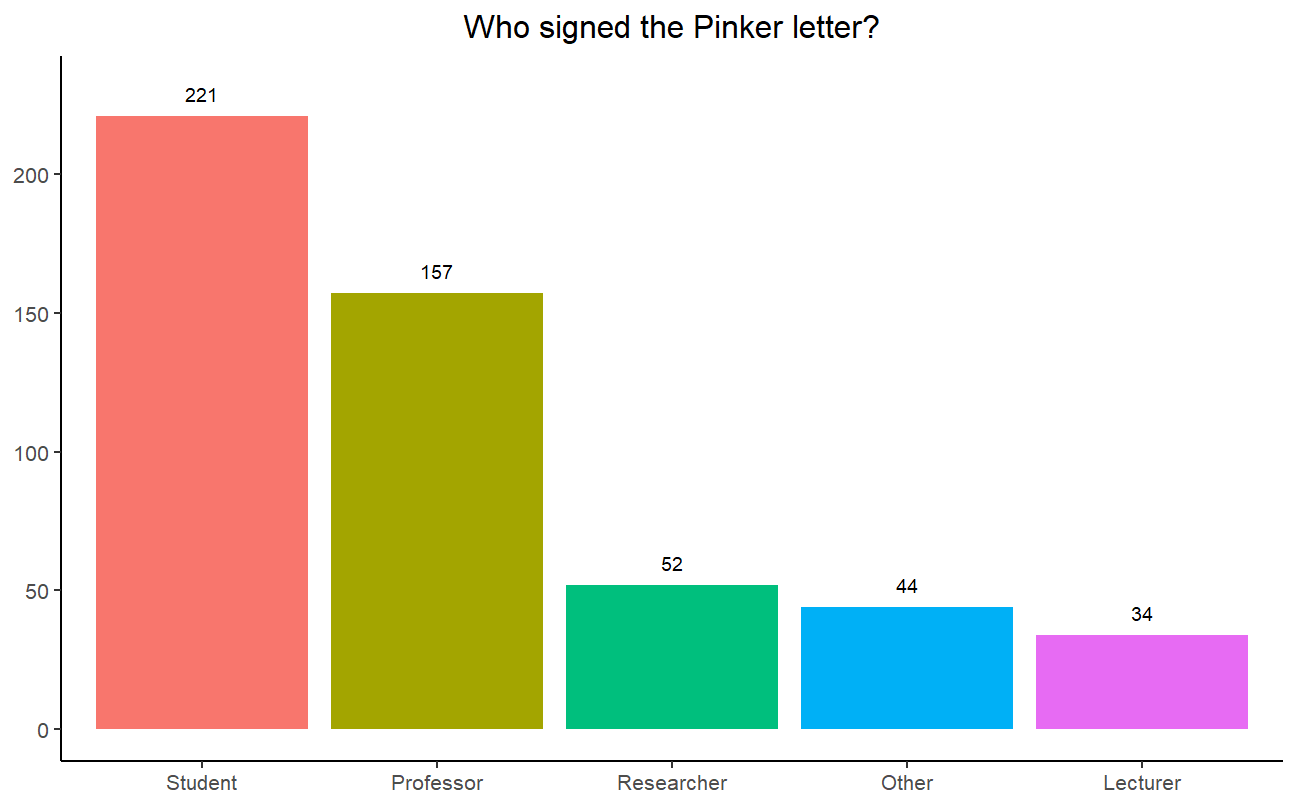
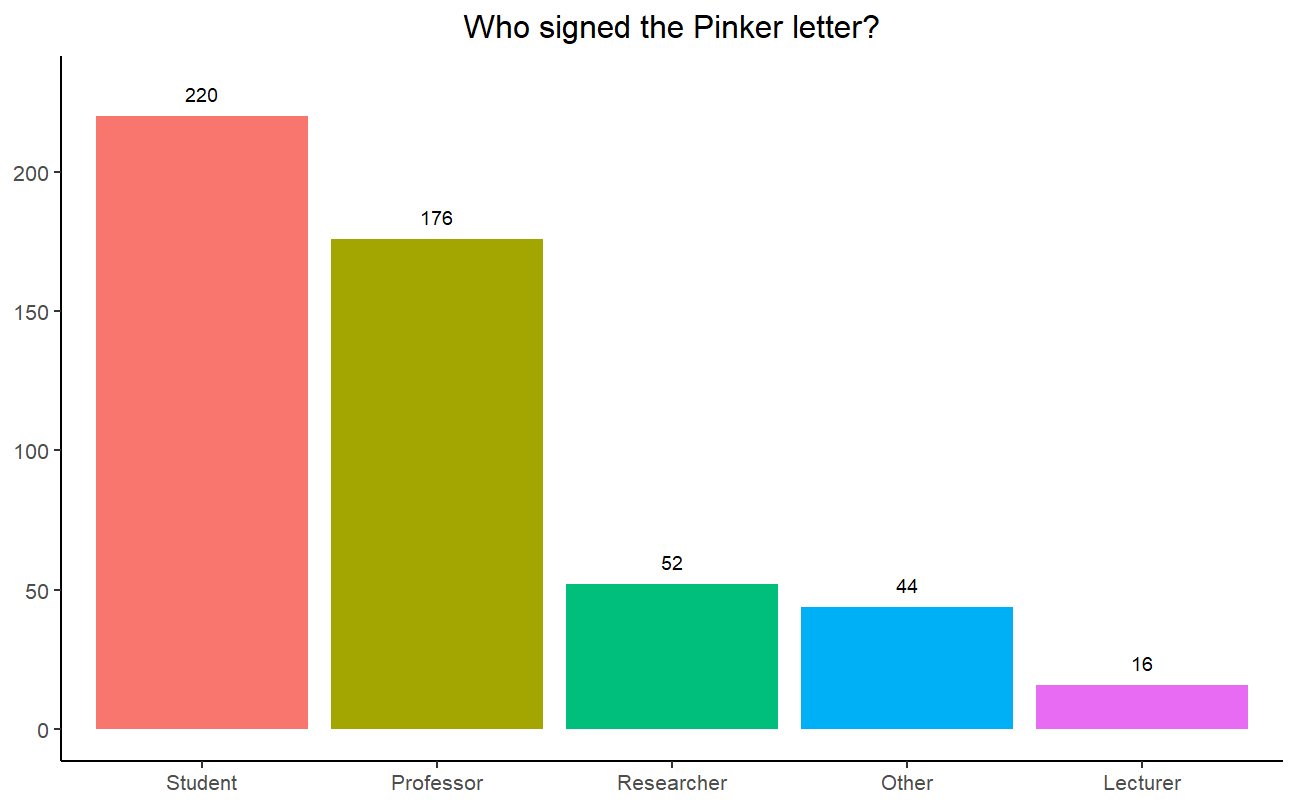
Deploy mcdowlinguist/mcdowlinguist.github.io to github.com/mcdowlinguist/mcdowlinguist.github.io.git:master

diff --git a/2020/07/22/pinker-letter-signatories.html b/2020/07/22/pinker-letter-signatories.html
@@ -260,17 +260,18 @@
   <li>Postdoctoral researchers were grouped in with data scientists and so on, unless “teaching” was indicated (in which case, they were counted as a lecturer)</li>
   <li>Alums were counted as students if nothing else was indicated.</li>
   <li>“Other” includes professionals within and outside of linguistics.</li>
+  <li>Anyone listing “lecturer” status in the UK, South Korea, Australia or New Zealand was manually changed to “professor,” as the title corresponds to Assistant Professor or higher in North America. (This affected 16 peoples’ classification.) Lecturers at European institutions were left off this list out of an abundance of caution.</li>
 </ul>
 
-<p>Note that this exercise was pretty weird to me. Academic rank is a strange thing, and this whole classification scheme felt a little unsavory and demeaning. Anyway. Once those roles are defined, we make a lookup dataframe and match people with their generalized roles. (I reordered the factor to make the bar graph pretty.)</p>
+<p>Note that this exercise felt pretty weird to me. Academic rank is a strange thing, and this whole classification scheme felt a little unsavory and demeaning. Anyway. Once those roles are defined, we make a lookup dataframe and match people with their generalized roles. (I reordered the factor to make the bar graph pretty.)</p>
 
 <p>Let’s take a look at the values:</p>
 
 <ul>
-  <li>Student: 221</li>
-  <li>Professor: 157</li>
+  <li>Student: 220</li>
+  <li>Professor: 176</li>
   <li>Researcher: 52</li>
-  <li>Lecturer: 34</li>
+  <li>Lecturer: 16</li>
   <li>Other: 44</li>
 </ul>
 
@@ -288,7 +289,8 @@
 
 <p>I even hesitated to write this post for fear of giving credence to this kind of argument. But in the end, I wanted to show that, playing by these (harmful!) rules, dismissing the Letter based on the status of the people who signed it is not as easy as, ahem, <em>certain people</em> have made it out to be.</p>
 
-<hr />
+<p>Post-script: Some people have already compiled a further breakdown of these numbers (e.g., tenure status). I hear that info should be public soon.
+___</p>
 <h2 id="the-code">The code</h2>
 
 <figure class="highlight"><pre><code class="language-r" data-lang="r"><span class="n">sign</span><span class="w"> </span><span class="o">=</span><span class="w"> </span><span class="n">read.csv2</span><span class="p">(</span><span class="n">text</span><span class="w"> </span><span class="o">=</span><span class="w"> </span><span class="s2">"
@@ -971,6 +973,7 @@ Zweig, Eytan;University of York;Lecturer
          </span><span class="s2">"Term Assistant Professor"</span><span class="p">,</span><span class="w">
          </span><span class="s2">"Professor and Chair, Department of Anthropology"</span><span class="p">,</span><span class="w">
          </span><span class="s2">"University teacher"</span><span class="p">,</span><span class="w">
+         </span><span class="s2">"Emeritus Professor"</span><span class="p">,</span><span class="w">
          </span><span class="s2">"Associate Professor Emeritus"</span><span class="p">,</span><span class="w">
          </span><span class="s2">"Professor and Chair"</span><span class="p">,</span><span class="w">
          </span><span class="s2">"Assoc Professor"</span><span class="p">,</span><span class="w">
@@ -1044,7 +1047,6 @@ Zweig, Eytan;University of York;Lecturer
          </span><span class="s2">"Grad student"</span><span class="p">,</span><span class="w">
          </span><span class="s2">"PhD Candidate, Linguistics"</span><span class="p">,</span><span class="w">
          </span><span class="s2">"Undergraduate"</span><span class="p">,</span><span class="w">
-         </span><span class="s2">"Emeritus Professor"</span><span class="p">,</span><span class="w">
          </span><span class="s2">"Undergraduate Student"</span><span class="p">,</span><span class="w">
          </span><span class="s2">"Alum, BA Linguistics + MS Theoretical Linguistics"</span><span class="w">
 </span><span class="p">)</span><span class="w">
@@ -1072,15 +1074,15 @@ Zweig, Eytan;University of York;Lecturer
 </span><span class="p">)</span><span class="w">
 
 </span><span class="n">lookup</span><span class="w"> </span><span class="o">=</span><span class="w"> </span><span class="n">data.frame</span><span class="p">(</span><span class="w">
-  </span><span class="n">who</span><span class="w"> </span><span class="o">=</span><span class="w"> </span><span class="nf">c</span><span class="p">(</span><span class="nf">rep</span><span class="p">(</span><span class="s2">"Lecturer"</span><span class="p">,</span><span class="w"> </span><span class="nf">length</span><span class="p">(</span><span class="n">lec</span><span class="p">)),</span><span class="w"> 
-  </span><span class="nf">rep</span><span class="p">(</span><span class="s2">"Other"</span><span class="p">,</span><span class="w"> </span><span class="nf">length</span><span class="p">(</span><span class="n">other</span><span class="p">)),</span><span class="w"> 
-  </span><span class="nf">rep</span><span class="p">(</span><span class="s2">"Professor"</span><span class="p">,</span><span class="w"> </span><span class="nf">length</span><span class="p">(</span><span class="n">prof</span><span class="p">)),</span><span class="w"> 
-  </span><span class="nf">rep</span><span class="p">(</span><span class="s2">"Researcher"</span><span class="p">,</span><span class="w"> </span><span class="nf">length</span><span class="p">(</span><span class="n">res</span><span class="p">)),</span><span class="w"> 
-  </span><span class="nf">rep</span><span class="p">(</span><span class="s2">"Student"</span><span class="p">,</span><span class="w"> </span><span class="nf">length</span><span class="p">(</span><span class="n">stud</span><span class="p">))),</span><span class="w">
+  </span><span class="n">who</span><span class="w"> </span><span class="o">=</span><span class="w"> </span><span class="nf">c</span><span class="p">(</span><span class="nf">rep</span><span class="p">(</span><span class="s2">"Lecturer"</span><span class="p">,</span><span class="w"> </span><span class="nf">length</span><span class="p">(</span><span class="n">lec</span><span class="p">)),</span><span class="w"> </span><span class="nf">rep</span><span class="p">(</span><span class="s2">"Other"</span><span class="p">,</span><span class="w"> </span><span class="nf">length</span><span class="p">(</span><span class="n">other</span><span class="p">)),</span><span class="w"> </span><span class="nf">rep</span><span class="p">(</span><span class="s2">"Professor"</span><span class="p">,</span><span class="w"> </span><span class="nf">length</span><span class="p">(</span><span class="n">prof</span><span class="p">)),</span><span class="w"> </span><span class="nf">rep</span><span class="p">(</span><span class="s2">"Researcher"</span><span class="p">,</span><span class="w"> </span><span class="nf">length</span><span class="p">(</span><span class="n">res</span><span class="p">)),</span><span class="w"> </span><span class="nf">rep</span><span class="p">(</span><span class="s2">"Student"</span><span class="p">,</span><span class="w"> </span><span class="nf">length</span><span class="p">(</span><span class="n">stud</span><span class="p">))),</span><span class="w">
   </span><span class="n">role</span><span class="w"> </span><span class="o">=</span><span class="w"> </span><span class="nf">c</span><span class="p">(</span><span class="n">lec</span><span class="p">,</span><span class="n">other</span><span class="p">,</span><span class="n">prof</span><span class="p">,</span><span class="n">res</span><span class="p">,</span><span class="n">stud</span><span class="p">)</span><span class="w">
 </span><span class="p">)</span><span class="w">
 
 </span><span class="n">sign</span><span class="o">$</span><span class="n">who</span><span class="w"> </span><span class="o">=</span><span class="w"> </span><span class="n">lookup</span><span class="o">$</span><span class="n">who</span><span class="p">[</span><span class="n">match</span><span class="p">(</span><span class="n">sign</span><span class="o">$</span><span class="n">V3</span><span class="p">,</span><span class="w"> </span><span class="n">lookup</span><span class="o">$</span><span class="n">role</span><span class="p">)]</span><span class="w">
+
+</span><span class="n">revise</span><span class="w"> </span><span class="o">=</span><span class="w"> </span><span class="nf">c</span><span class="p">(</span><span class="m">111</span><span class="p">,</span><span class="w"> </span><span class="m">156</span><span class="p">,</span><span class="w"> </span><span class="m">161</span><span class="p">,</span><span class="w"> </span><span class="m">176</span><span class="p">,</span><span class="w"> </span><span class="m">290</span><span class="p">,</span><span class="w"> </span><span class="m">302</span><span class="p">,</span><span class="w"> </span><span class="m">304</span><span class="p">,</span><span class="w"> </span><span class="m">379</span><span class="p">,</span><span class="w"> </span><span class="m">334</span><span class="p">,</span><span class="w"> </span><span class="m">462</span><span class="p">,</span><span class="w"> </span><span class="m">444</span><span class="p">,</span><span class="w"> </span><span class="m">499</span><span class="p">,</span><span class="w"> </span><span class="m">524</span><span class="p">,</span><span class="w"> </span><span class="m">588</span><span class="p">,</span><span class="w"> </span><span class="m">617</span><span class="p">,</span><span class="w"> </span><span class="m">632</span><span class="p">)</span><span class="w">
+
+</span><span class="n">sign</span><span class="p">[</span><span class="n">revise</span><span class="p">,]</span><span class="o">$</span><span class="n">who</span><span class="w"> </span><span class="o">=</span><span class="w"> </span><span class="s2">"Professor"</span><span class="w">
 
 </span><span class="n">sign</span><span class="w"> </span><span class="o">=</span><span class="w"> </span><span class="n">within</span><span class="p">(</span><span class="n">sign</span><span class="p">,</span><span class="w"> </span><span class="n">who</span><span class="w"> </span><span class="o">&lt;-</span><span class="w"> </span><span class="n">factor</span><span class="p">(</span><span class="n">who</span><span class="p">,</span><span class="w"> </span><span class="n">levels</span><span class="o">=</span><span class="nf">names</span><span class="p">(</span><span class="n">sort</span><span class="p">(</span><span class="n">table</span><span class="p">(</span><span class="n">who</span><span class="p">),</span><span class="w"> </span><span class="n">decreasing</span><span class="o">=</span><span class="kc">TRUE</span><span class="p">))))</span><span class="w">
 
@@ -1092,8 +1094,7 @@ Zweig, Eytan;University of York;Lecturer
   </span><span class="n">axis.title</span><span class="w"> </span><span class="o">=</span><span class="w"> </span><span class="n">element_blank</span><span class="p">(),</span><span class="w">
   </span><span class="n">legend.position</span><span class="w"> </span><span class="o">=</span><span class="w"> </span><span class="s2">"none"</span><span class="p">,</span><span class="w">
   </span><span class="n">plot.title</span><span class="w"> </span><span class="o">=</span><span class="w"> </span><span class="n">element_text</span><span class="p">(</span><span class="n">hjust</span><span class="w"> </span><span class="o">=</span><span class="w"> </span><span class="m">0.5</span><span class="p">)</span><span class="w">
-</span><span class="p">)</span><span class="w"> </span><span class="o">+</span><span class="w"> </span><span class="n">scale_y_continuous</span><span class="p">(</span><span class="n">limits</span><span class="w"> </span><span class="o">=</span><span class="w"> </span><span class="nf">c</span><span class="p">(</span><span class="m">0</span><span class="p">,</span><span class="w"> </span><span class="nf">length</span><span class="p">(</span><span class="n">which</span><span class="p">(</span><span class="n">sign</span><span class="o">$</span><span class="n">who</span><span class="o">==</span><span class="s2">"Student"</span><span class="p">))</span><span class="m">+10</span><span class="p">))</span><span class="w"> </span><span class="o">+</span><span class="w"> 
-</span><span class="n">ggtitle</span><span class="p">(</span><span class="s2">"Who signed the Pinker letter?"</span><span class="p">)</span></code></pre></figure>
+</span><span class="p">)</span><span class="w"> </span><span class="o">+</span><span class="w"> </span><span class="n">scale_y_continuous</span><span class="p">(</span><span class="n">limits</span><span class="w"> </span><span class="o">=</span><span class="w"> </span><span class="nf">c</span><span class="p">(</span><span class="m">0</span><span class="p">,</span><span class="w"> </span><span class="nf">length</span><span class="p">(</span><span class="n">which</span><span class="p">(</span><span class="n">sign</span><span class="o">$</span><span class="n">who</span><span class="o">==</span><span class="s2">"Student"</span><span class="p">))</span><span class="m">+10</span><span class="p">))</span><span class="w"> </span><span class="o">+</span><span class="w"> </span><span class="n">ggtitle</span><span class="p">(</span><span class="s2">"Who signed the Pinker letter?"</span><span class="p">)</span></code></pre></figure>
 
     
 

diff --git a/fr/2020/07/22/pinker-letter-signatories.html b/fr/2020/07/22/pinker-letter-signatories.html
@@ -260,17 +260,18 @@
   <li>Postdoctoral researchers were grouped in with data scientists and so on, unless “teaching” was indicated (in which case, they were counted as a lecturer)</li>
   <li>Alums were counted as students if nothing else was indicated.</li>
   <li>“Other” includes professionals within and outside of linguistics.</li>
+  <li>Anyone listing “lecturer” status in the UK, South Korea, Australia or New Zealand was manually changed to “professor,” as the title corresponds to Assistant Professor or higher in North America. (This affected 16 peoples’ classification.) Lecturers at European institutions were left off this list out of an abundance of caution.</li>
 </ul>
 
-<p>Note that this exercise was pretty weird to me. Academic rank is a strange thing, and this whole classification scheme felt a little unsavory and demeaning. Anyway. Once those roles are defined, we make a lookup dataframe and match people with their generalized roles. (I reordered the factor to make the bar graph pretty.)</p>
+<p>Note that this exercise felt pretty weird to me. Academic rank is a strange thing, and this whole classification scheme felt a little unsavory and demeaning. Anyway. Once those roles are defined, we make a lookup dataframe and match people with their generalized roles. (I reordered the factor to make the bar graph pretty.)</p>
 
 <p>Let’s take a look at the values:</p>
 
 <ul>
-  <li>Student: 221</li>
-  <li>Professor: 157</li>
+  <li>Student: 220</li>
+  <li>Professor: 176</li>
   <li>Researcher: 52</li>
-  <li>Lecturer: 34</li>
+  <li>Lecturer: 16</li>
   <li>Other: 44</li>
 </ul>
 
@@ -288,7 +289,8 @@
 
 <p>I even hesitated to write this post for fear of giving credence to this kind of argument. But in the end, I wanted to show that, playing by these (harmful!) rules, dismissing the Letter based on the status of the people who signed it is not as easy as, ahem, <em>certain people</em> have made it out to be.</p>
 
-<hr />
+<p>Post-script: Some people have already compiled a further breakdown of these numbers (e.g., tenure status). I hear that info should be public soon.
+___</p>
 <h2 id="the-code">The code</h2>
 
 <figure class="highlight"><pre><code class="language-r" data-lang="r"><span class="n">sign</span><span class="w"> </span><span class="o">=</span><span class="w"> </span><span class="n">read.csv2</span><span class="p">(</span><span class="n">text</span><span class="w"> </span><span class="o">=</span><span class="w"> </span><span class="s2">"
@@ -971,6 +973,7 @@ Zweig, Eytan;University of York;Lecturer
          </span><span class="s2">"Term Assistant Professor"</span><span class="p">,</span><span class="w">
          </span><span class="s2">"Professor and Chair, Department of Anthropology"</span><span class="p">,</span><span class="w">
          </span><span class="s2">"University teacher"</span><span class="p">,</span><span class="w">
+         </span><span class="s2">"Emeritus Professor"</span><span class="p">,</span><span class="w">
          </span><span class="s2">"Associate Professor Emeritus"</span><span class="p">,</span><span class="w">
          </span><span class="s2">"Professor and Chair"</span><span class="p">,</span><span class="w">
          </span><span class="s2">"Assoc Professor"</span><span class="p">,</span><span class="w">
@@ -1044,7 +1047,6 @@ Zweig, Eytan;University of York;Lecturer
          </span><span class="s2">"Grad student"</span><span class="p">,</span><span class="w">
          </span><span class="s2">"PhD Candidate, Linguistics"</span><span class="p">,</span><span class="w">
          </span><span class="s2">"Undergraduate"</span><span class="p">,</span><span class="w">
-         </span><span class="s2">"Emeritus Professor"</span><span class="p">,</span><span class="w">
          </span><span class="s2">"Undergraduate Student"</span><span class="p">,</span><span class="w">
          </span><span class="s2">"Alum, BA Linguistics + MS Theoretical Linguistics"</span><span class="w">
 </span><span class="p">)</span><span class="w">
@@ -1072,15 +1074,15 @@ Zweig, Eytan;University of York;Lecturer
 </span><span class="p">)</span><span class="w">
 
 </span><span class="n">lookup</span><span class="w"> </span><span class="o">=</span><span class="w"> </span><span class="n">data.frame</span><span class="p">(</span><span class="w">
-  </span><span class="n">who</span><span class="w"> </span><span class="o">=</span><span class="w"> </span><span class="nf">c</span><span class="p">(</span><span class="nf">rep</span><span class="p">(</span><span class="s2">"Lecturer"</span><span class="p">,</span><span class="w"> </span><span class="nf">length</span><span class="p">(</span><span class="n">lec</span><span class="p">)),</span><span class="w"> 
-  </span><span class="nf">rep</span><span class="p">(</span><span class="s2">"Other"</span><span class="p">,</span><span class="w"> </span><span class="nf">length</span><span class="p">(</span><span class="n">other</span><span class="p">)),</span><span class="w"> 
-  </span><span class="nf">rep</span><span class="p">(</span><span class="s2">"Professor"</span><span class="p">,</span><span class="w"> </span><span class="nf">length</span><span class="p">(</span><span class="n">prof</span><span class="p">)),</span><span class="w"> 
-  </span><span class="nf">rep</span><span class="p">(</span><span class="s2">"Researcher"</span><span class="p">,</span><span class="w"> </span><span class="nf">length</span><span class="p">(</span><span class="n">res</span><span class="p">)),</span><span class="w"> 
-  </span><span class="nf">rep</span><span class="p">(</span><span class="s2">"Student"</span><span class="p">,</span><span class="w"> </span><span class="nf">length</span><span class="p">(</span><span class="n">stud</span><span class="p">))),</span><span class="w">
+  </span><span class="n">who</span><span class="w"> </span><span class="o">=</span><span class="w"> </span><span class="nf">c</span><span class="p">(</span><span class="nf">rep</span><span class="p">(</span><span class="s2">"Lecturer"</span><span class="p">,</span><span class="w"> </span><span class="nf">length</span><span class="p">(</span><span class="n">lec</span><span class="p">)),</span><span class="w"> </span><span class="nf">rep</span><span class="p">(</span><span class="s2">"Other"</span><span class="p">,</span><span class="w"> </span><span class="nf">length</span><span class="p">(</span><span class="n">other</span><span class="p">)),</span><span class="w"> </span><span class="nf">rep</span><span class="p">(</span><span class="s2">"Professor"</span><span class="p">,</span><span class="w"> </span><span class="nf">length</span><span class="p">(</span><span class="n">prof</span><span class="p">)),</span><span class="w"> </span><span class="nf">rep</span><span class="p">(</span><span class="s2">"Researcher"</span><span class="p">,</span><span class="w"> </span><span class="nf">length</span><span class="p">(</span><span class="n">res</span><span class="p">)),</span><span class="w"> </span><span class="nf">rep</span><span class="p">(</span><span class="s2">"Student"</span><span class="p">,</span><span class="w"> </span><span class="nf">length</span><span class="p">(</span><span class="n">stud</span><span class="p">))),</span><span class="w">
   </span><span class="n">role</span><span class="w"> </span><span class="o">=</span><span class="w"> </span><span class="nf">c</span><span class="p">(</span><span class="n">lec</span><span class="p">,</span><span class="n">other</span><span class="p">,</span><span class="n">prof</span><span class="p">,</span><span class="n">res</span><span class="p">,</span><span class="n">stud</span><span class="p">)</span><span class="w">
 </span><span class="p">)</span><span class="w">
 
 </span><span class="n">sign</span><span class="o">$</span><span class="n">who</span><span class="w"> </span><span class="o">=</span><span class="w"> </span><span class="n">lookup</span><span class="o">$</span><span class="n">who</span><span class="p">[</span><span class="n">match</span><span class="p">(</span><span class="n">sign</span><span class="o">$</span><span class="n">V3</span><span class="p">,</span><span class="w"> </span><span class="n">lookup</span><span class="o">$</span><span class="n">role</span><span class="p">)]</span><span class="w">
+
+</span><span class="n">revise</span><span class="w"> </span><span class="o">=</span><span class="w"> </span><span class="nf">c</span><span class="p">(</span><span class="m">111</span><span class="p">,</span><span class="w"> </span><span class="m">156</span><span class="p">,</span><span class="w"> </span><span class="m">161</span><span class="p">,</span><span class="w"> </span><span class="m">176</span><span class="p">,</span><span class="w"> </span><span class="m">290</span><span class="p">,</span><span class="w"> </span><span class="m">302</span><span class="p">,</span><span class="w"> </span><span class="m">304</span><span class="p">,</span><span class="w"> </span><span class="m">379</span><span class="p">,</span><span class="w"> </span><span class="m">334</span><span class="p">,</span><span class="w"> </span><span class="m">462</span><span class="p">,</span><span class="w"> </span><span class="m">444</span><span class="p">,</span><span class="w"> </span><span class="m">499</span><span class="p">,</span><span class="w"> </span><span class="m">524</span><span class="p">,</span><span class="w"> </span><span class="m">588</span><span class="p">,</span><span class="w"> </span><span class="m">617</span><span class="p">,</span><span class="w"> </span><span class="m">632</span><span class="p">)</span><span class="w">
+
+</span><span class="n">sign</span><span class="p">[</span><span class="n">revise</span><span class="p">,]</span><span class="o">$</span><span class="n">who</span><span class="w"> </span><span class="o">=</span><span class="w"> </span><span class="s2">"Professor"</span><span class="w">
 
 </span><span class="n">sign</span><span class="w"> </span><span class="o">=</span><span class="w"> </span><span class="n">within</span><span class="p">(</span><span class="n">sign</span><span class="p">,</span><span class="w"> </span><span class="n">who</span><span class="w"> </span><span class="o">&lt;-</span><span class="w"> </span><span class="n">factor</span><span class="p">(</span><span class="n">who</span><span class="p">,</span><span class="w"> </span><span class="n">levels</span><span class="o">=</span><span class="nf">names</span><span class="p">(</span><span class="n">sort</span><span class="p">(</span><span class="n">table</span><span class="p">(</span><span class="n">who</span><span class="p">),</span><span class="w"> </span><span class="n">decreasing</span><span class="o">=</span><span class="kc">TRUE</span><span class="p">))))</span><span class="w">
 
@@ -1092,8 +1094,7 @@ Zweig, Eytan;University of York;Lecturer
   </span><span class="n">axis.title</span><span class="w"> </span><span class="o">=</span><span class="w"> </span><span class="n">element_blank</span><span class="p">(),</span><span class="w">
   </span><span class="n">legend.position</span><span class="w"> </span><span class="o">=</span><span class="w"> </span><span class="s2">"none"</span><span class="p">,</span><span class="w">
   </span><span class="n">plot.title</span><span class="w"> </span><span class="o">=</span><span class="w"> </span><span class="n">element_text</span><span class="p">(</span><span class="n">hjust</span><span class="w"> </span><span class="o">=</span><span class="w"> </span><span class="m">0.5</span><span class="p">)</span><span class="w">
-</span><span class="p">)</span><span class="w"> </span><span class="o">+</span><span class="w"> </span><span class="n">scale_y_continuous</span><span class="p">(</span><span class="n">limits</span><span class="w"> </span><span class="o">=</span><span class="w"> </span><span class="nf">c</span><span class="p">(</span><span class="m">0</span><span class="p">,</span><span class="w"> </span><span class="nf">length</span><span class="p">(</span><span class="n">which</span><span class="p">(</span><span class="n">sign</span><span class="o">$</span><span class="n">who</span><span class="o">==</span><span class="s2">"Student"</span><span class="p">))</span><span class="m">+10</span><span class="p">))</span><span class="w"> </span><span class="o">+</span><span class="w"> 
-</span><span class="n">ggtitle</span><span class="p">(</span><span class="s2">"Who signed the Pinker letter?"</span><span class="p">)</span></code></pre></figure>
+</span><span class="p">)</span><span class="w"> </span><span class="o">+</span><span class="w"> </span><span class="n">scale_y_continuous</span><span class="p">(</span><span class="n">limits</span><span class="w"> </span><span class="o">=</span><span class="w"> </span><span class="nf">c</span><span class="p">(</span><span class="m">0</span><span class="p">,</span><span class="w"> </span><span class="nf">length</span><span class="p">(</span><span class="n">which</span><span class="p">(</span><span class="n">sign</span><span class="o">$</span><span class="n">who</span><span class="o">==</span><span class="s2">"Student"</span><span class="p">))</span><span class="m">+10</span><span class="p">))</span><span class="w"> </span><span class="o">+</span><span class="w"> </span><span class="n">ggtitle</span><span class="p">(</span><span class="s2">"Who signed the Pinker letter?"</span><span class="p">)</span></code></pre></figure>
 
     
 
